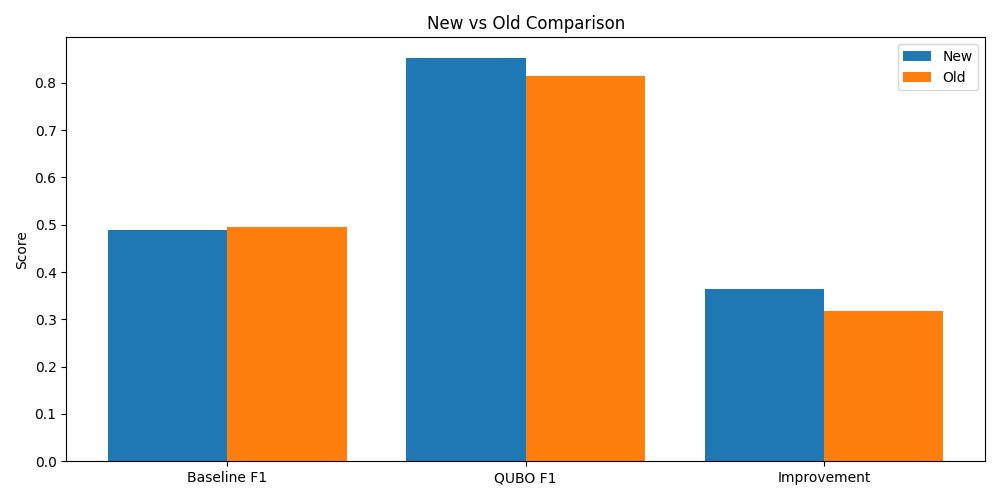
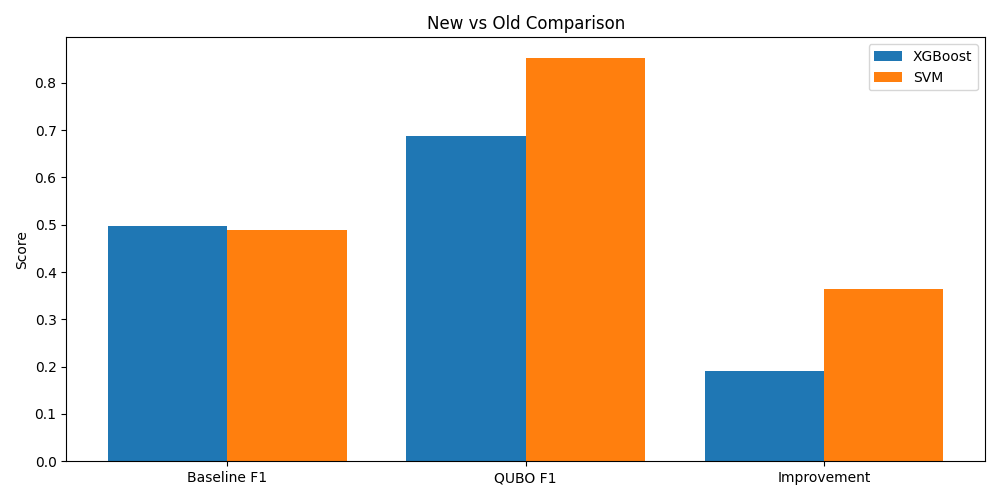
xgboost

diff --git a/resultRead.py b/resultRead.py
@@ -60,8 +60,8 @@ def ValScoreVsImprovement(df):
     plt.savefig("val_score_vs_improvement.png")
 
 if __name__ == "__main__":
-    dfnew = pd.read_pickle("experimentLogs/20260323_032622_gpu_results.pkl")
-    dfold = pd.read_pickle("experimentLogs/20260322_144711_gpu_results.pkl")
+    dfold = pd.read_pickle("experimentLogs/20260323_032622_svm_results.pkl")
+    dfnew = pd.read_pickle("experimentLogs/20260328_170826_XG_results.pkl")
     
     df_seizureNew = dfnew[dfnew["Num_Positive"] > 0]
     df_seizureOld = dfold[dfold["Num_Positive"] > 0]
@@ -81,8 +81,8 @@ if __name__ == "__main__":
     old_values = [df_seizureOld["Baseline_F1"].mean(), df_seizureOld["QUBO_F1"].mean(), df_seizureOld["Improvement"].mean()]
     
     x = range(len(categories))
-    plt.bar([i - 0.2 for i in x], new_values, width=0.4, label="New")
-    plt.bar([i + 0.2 for i in x], old_values, width=0.4, label="Old")
+    plt.bar([i - 0.2 for i in x], new_values, width=0.4, label="XGBoost")
+    plt.bar([i + 0.2 for i in x], old_values, width=0.4, label="SVM")
     plt.xticks(x, categories)
     plt.ylabel("Score")
     plt.title("New vs Old Comparison")

diff --git a/gpu.py b/gpu.py
@@ -164,11 +164,16 @@ for testFile in seizureFiles:
     # 2. 訓練模型 (使用 GPU)
     scaler = StandardScaler()
     xTrainScaled = scaler.fit_transform(xTrainAll)
+
     
-    clf = SVC(probability=True, kernel='rbf', class_weight='balanced', verbose=False)
+    
+
+    #clf = SVC(probability=True, kernel='rbf', class_weight='balanced', verbose=False)
+    bst = XGBClassifier(n_estimators=500, max_depth=6, learning_rate=0.1, objective='binary:logistic',device='cuda')
     
     print(f"正在 GPU 上訓練 SVM (樣本數: {xTrainAll.shape[0]})...")
-    clf.fit(xTrainScaled, yTrainAll)
+    #clf.fit(xTrainScaled, yTrainAll)
+    bst.fit(xTrainScaled.get(), yTrainAll.get())
     print("GPU 訓練完成！")
 
     # 3. 準備測試集
@@ -177,7 +182,8 @@ for testFile in seizureFiles:
 
     xTestScaled = scaler.transform(xTestFeat)
     # 4. 取得分數與 QUBO 優化
-    scores = clf.predict_proba(xTestScaled)[:, 1]
+    #scores = clf.predict_proba(xTestScaled)[:, 1]
+    scores = bst.predict_proba(xTestScaled)[:, 1]
 
     # 轉回 numpy 格式供 QUBO (CPU) 使用
     if hasattr(scores, 'get'):
